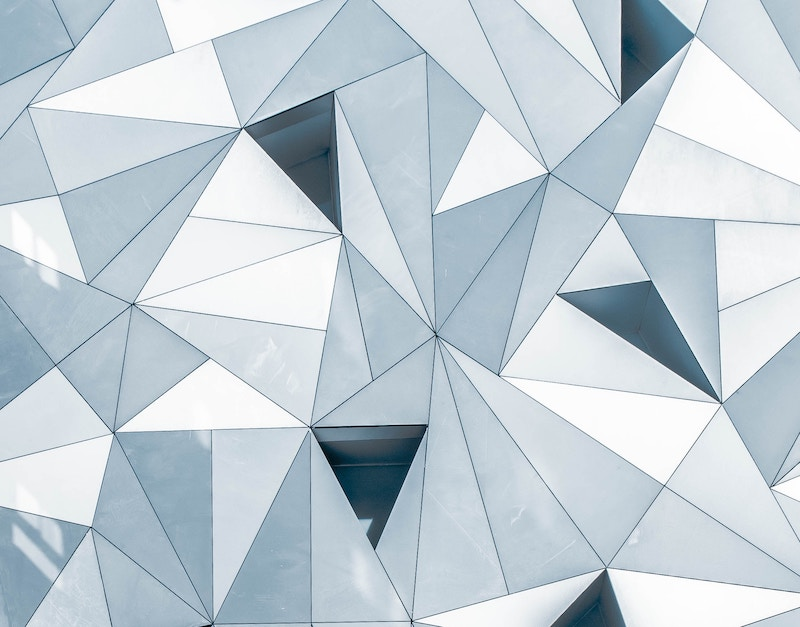
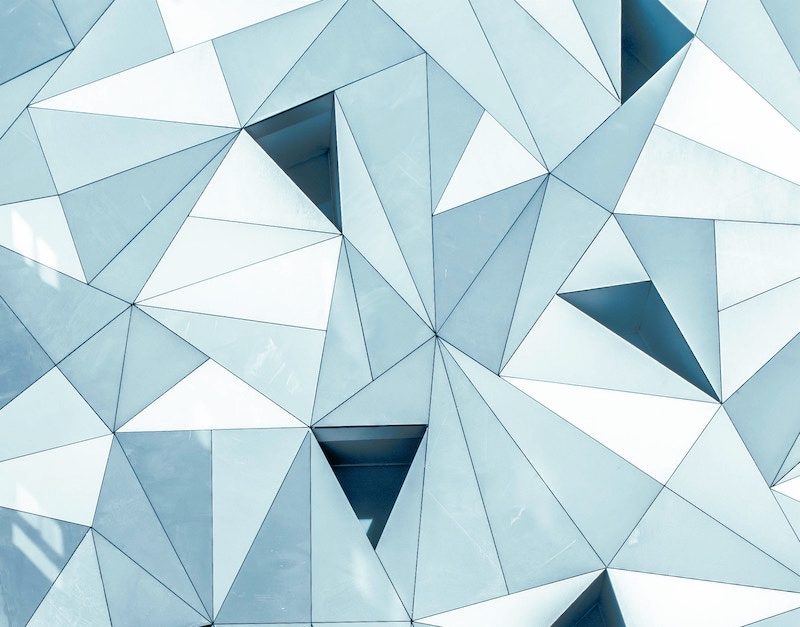
changed header image from darker to warmer

diff --git a/index.html b/index.html
@@ -3,7 +3,7 @@ layout: home
 author_profile: true
 title: "My Guide to Data Science"
 header:
-    overlay_image: /assets/images/joel-filipe-small-darker.jpg
+    overlay_image: /assets/images/joel-filipe-small-warmer.jpg
     caption: "Photo by [Joel Filipe](https://unsplash.com/@joelfilip) on [Unsplash](https://unsplash.com)"
 classes: wide
 ---

diff --git a/_pages/portfolio.md b/_pages/portfolio.md
@@ -3,7 +3,7 @@ layout: single
 title: "Portfolio"
 permalink: /portfolio/
 header:
-    overlay_image: /assets/images/joel-filipe-small-darker.jpg
+    overlay_image: /assets/images/joel-filipe-small-warmer.jpg
     caption: "Photo by [Joel Filipe](https://unsplash.com/@joelfilip) on [Unsplash](https://unsplash.com)"
 author_profile: true
 classes: wide

diff --git a/_pages/about.md b/_pages/about.md
@@ -4,7 +4,7 @@ permalink: /about/
 title: About
 author_profile: true
 header:
-    overlay_image: /assets/images/joel-filipe-small-darker.jpg
+    overlay_image: /assets/images/joel-filipe-small-warmer.jpg
     caption: "Photo by [Joel Filipe](https://unsplash.com/@joelfilip) on [Unsplash](https://unsplash.com)"
 classes: wide
 date: August 28, 2019

diff --git a/_pages/year-archive.md b/_pages/year-archive.md
@@ -4,7 +4,7 @@ permalink: /year-archive/
 layout: posts
 author_profile: true
 header:
-    overlay_image: /assets/images/joel-filipe-small-darker.jpg
+    overlay_image: /assets/images/joel-filipe-small-warmer.jpg
     caption: "Photo by [Joel Filipe](https://unsplash.com/@joelfilip) on [Unsplash](https://unsplash.com)"
 ---
 
